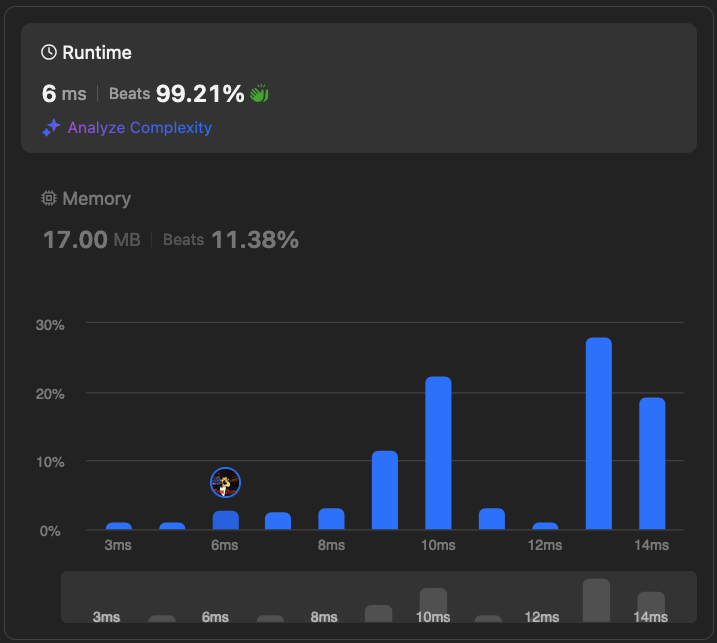
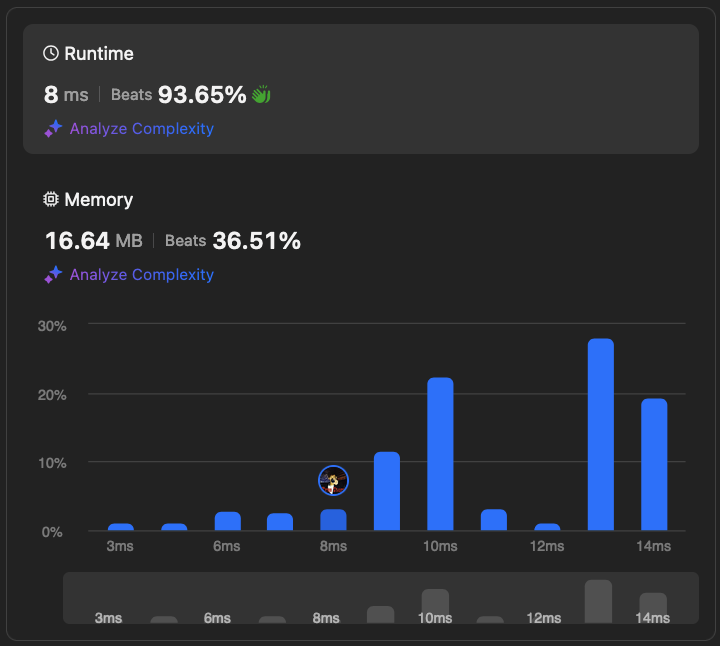
Solved 102

diff --git a/LeetCode.playground/Pages/102. Binary Tree Level Order Traversal .xcplaygroundpage/Contents.swift b/LeetCode.playground/Pages/102. Binary Tree Level Order Traversal .xcplaygroundpage/Contents.swift
@@ -5,35 +5,33 @@
  ![submission](1.png)
  */
 
+import DequeModule
+
 class Solution {
     func levelOrder(_ root: TreeNode?) -> [[Int]] {
         guard let root else { return [] }
 
-        var queue = Queue([(root, 0)])
+        var queue = Deque([root])
         var ans = [[Int]]()
-        var temp = [Int]()
-        var curLevel = 0
 
         while !queue.isEmpty {
-            let (node, level) = queue.pop()!
-            
-            if curLevel < level && !temp.isEmpty {
-                ans.append(temp)
-                temp.removeAll()
-            }
+            let size = queue.count
+            var curLevel = [Int]()
 
-            curLevel = level
-            temp.append(node.val)
+            for i in 0..<size {
+                let node = queue.popFirst()!
 
-            if let left = node.left {
-                queue.push((left, level + 1))
+                curLevel.append(node.val)
+
+                if let left = node.left {
+                    queue.append(left)
+                }
+                if let right = node.right {
+                    queue.append(right)
+                }
             }
-            if let right = node.right {
-                queue.push((right, level + 1))
-            }
+            ans.append(curLevel)
         }
-
-        ans.append(temp)
 
         return ans
     }
